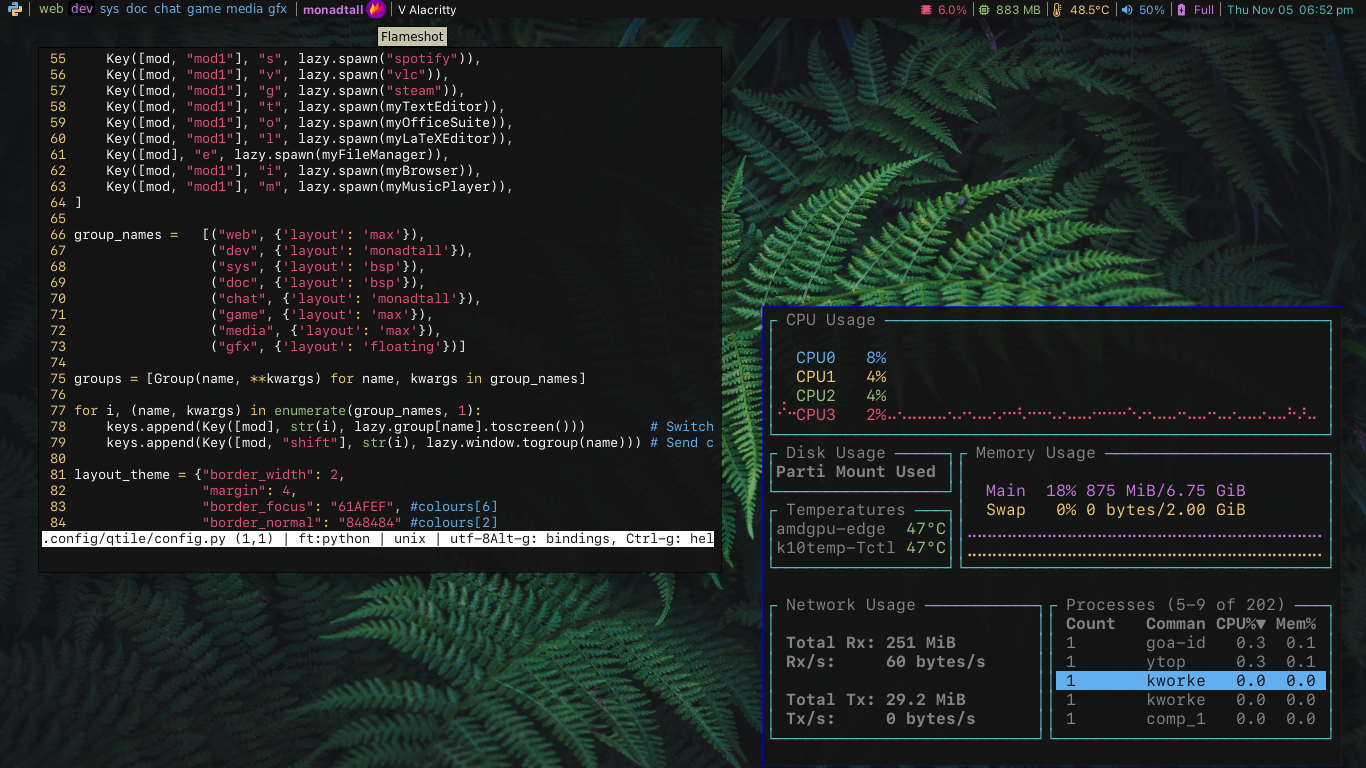
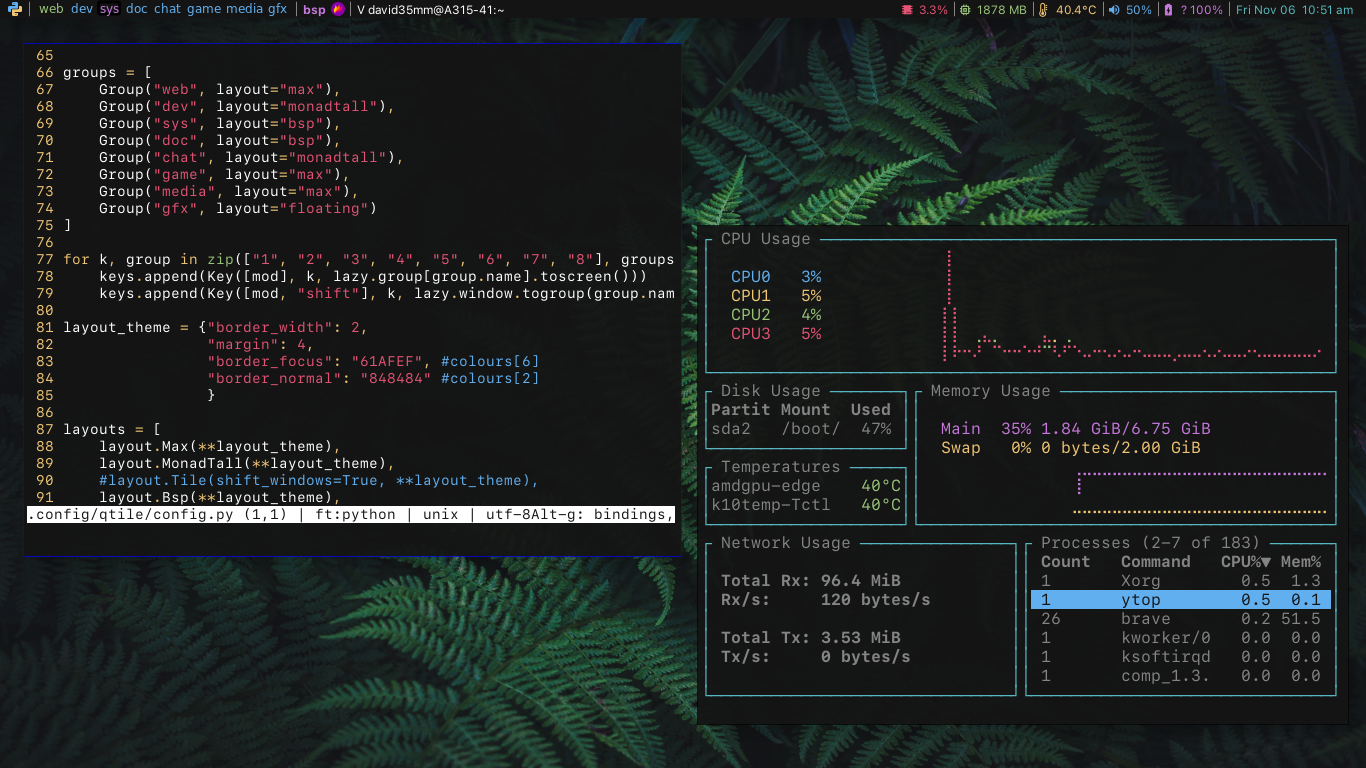
Changed the bar on Qtile

Changed region(s): [[0.0, 0.0, 0.9839, 1.0], [0.6457, 0.0, 0.9839, 0.0312], [0.7379, 0.4375, 0.7994, 0.4688]]

diff --git a/.config/qtile/config.py b/.config/qtile/config.py
@@ -162,6 +162,8 @@ screens = [
 				foreground=colours[7]
 				),
 			widget.Systray(
+				icon_size=14,
+				padding=4
 				),
 			widget.Cmus(
 				play_color='FFFFFF',
